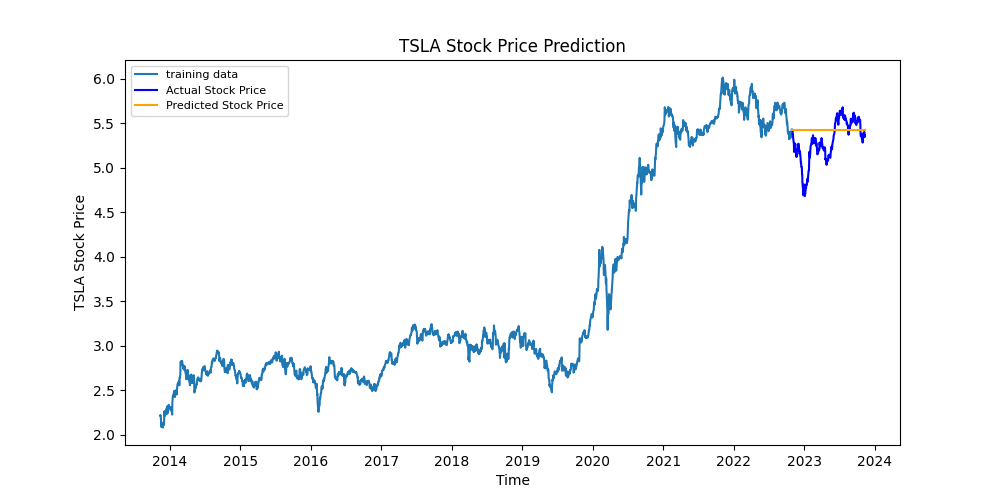
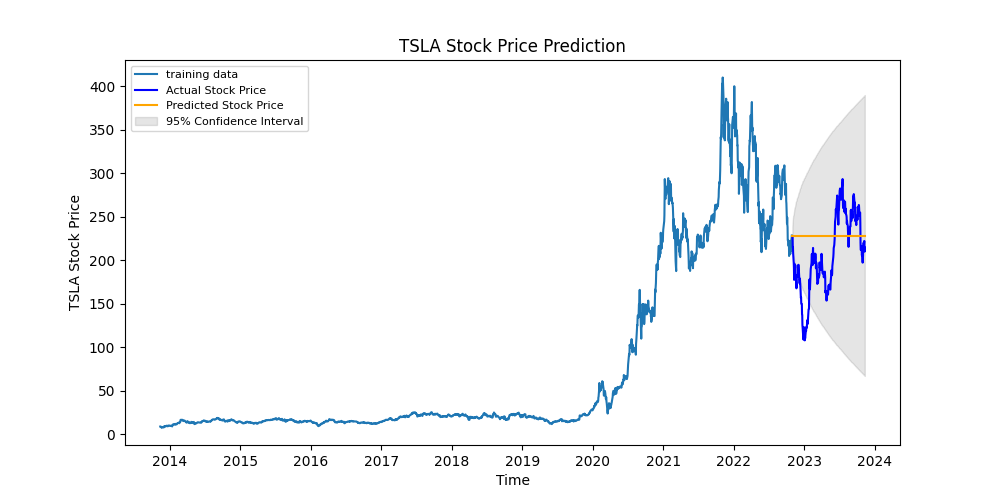
Adding confidnece intervels

diff --git a/SRC/model.py b/SRC/model.py
@@ -109,13 +109,19 @@ def eliminate_trends(data,stockname):
     plt.close()
     return df_log
 
-AAPL = eliminate_trends(AAPL, "AAPL")
-DAL = eliminate_trends(DAL, "DAL")
-F = eliminate_trends(F, "F")
-FUN = eliminate_trends(FUN, "FUN")
-GME = eliminate_trends(GME, "GME")
-TSLA = eliminate_trends(TSLA, "TSLA")
+#AAPL = eliminate_trends(AAPL, "AAPL")
+#DAL = eliminate_trends(DAL, "DAL")
+#F = eliminate_trends(F, "F")
+#FUN = eliminate_trends(FUN, "FUN")
+#GME = eliminate_trends(GME, "GME")
+#TSLA = eliminate_trends(TSLA, "TSLA")
 
+AAPL = AAPL['Close/Last']
+DAL = DAL['Close/Last']
+F = F['Close/Last']
+FUN = FUN['Close/Last']
+GME = GME['Close/Last']
+TSLA = TSLA['Close/Last']
 
 #looks specifically to split on the date 
 def split_data(df_log, ticker):
@@ -193,6 +199,13 @@ def forecast_and_analyze(train_data, test_data, fitted, ticker):
     # Make as pandas series
     #fc_series = pd.Series(fc, index=test_data.index)
     #combined_series = pd.Series(fc.values, index=test_data.index + pd.to_timedelta(fc.index, unit='D'))
+    # Forecasting the next 'n' steps
+    n_steps = 260
+    forecast_result = fitted.get_forecast(steps=n_steps)
+
+    # Extract the forecast and the confidence interval
+    forecast = forecast_result.predicted_mean
+    conf_int = forecast_result.conf_int(alpha=0.05)  # 95% confidence interval
 
     combined_series = pd.Series(fc.values, index=test_data.index)
 
@@ -205,6 +218,10 @@ def forecast_and_analyze(train_data, test_data, fitted, ticker):
     plt.plot(test_data, color = 'blue', label='Actual Stock Price')
     plt.plot(combined_series, color = 'orange',label='Predicted Stock Price')
     #plt.fill_between(lower_series.index, lower_series, upper_series, color='k', alpha=.10)
+    plt.fill_between(combined_series.index, 
+                 conf_int.iloc[:, 0], 
+                 conf_int.iloc[:, 1], 
+                 color='k', alpha=0.1, label='95% Confidence Interval')
     plt.title(ticker+ ' Stock Price Prediction')
     plt.xlabel('Time')
     plt.ylabel(ticker + ' Stock Price')
